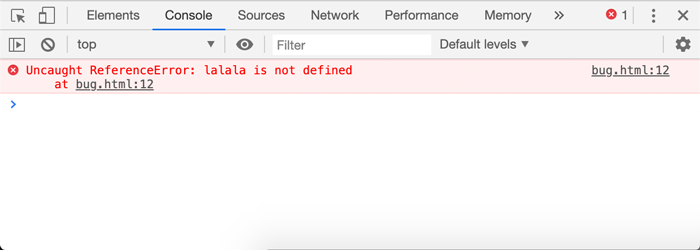
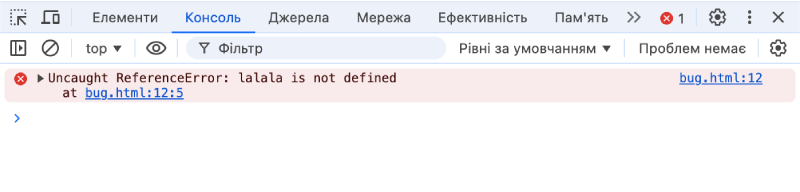
Translate DevTools tabs

diff --git a/1-js/01-getting-started/4-devtools/article.md b/1-js/01-getting-started/4-devtools/article.md
@@ -16,18 +16,18 @@
 
 Відкрийте сторінку [bug.html](bug.html). На ній є помилка в коді JavaScript. Вона прихована для звичайних користувачів, тому потрібно відкрити інструменти розробника, щоб її побачити.
 
-Натисніть клавішу `key:F12` або, якщо у вас Mac, комбінацію клавіш `key:Cmd+Opt+J`.
+Натисніть клавішу `key:F12` або, якщо у вас комп'ютер Mac, комбінацію клавіш `key:Cmd+Opt+J`.
 
-Інструменти розробника типово відкриваються на вкладці "Console" (консоль).
+Інструменти розробника типово відкриваються на вкладці "Консоль" ("Console").
 
 Ось так відображається помилка в консолі:
 
 ![chrome](chrome.png)
 
-Точний вигляд інструментів розробника може відрізнятися в залежності від вашої версії Chrome. Вони міняються час від часу, але в основному це вікно повинно бути схожим.
+Точний вигляд інструментів розробника може відрізнятися в залежності від вашої версії Chrome, а також налаштування мови.
 
 - Тут ми можемо побачити червоне повідомлення про помилку. У нашому випадку, скрипт має невизначену команду "lalala".
-- З правого боку є посилання на джерело `bug.html:12` з номером рядка, де ця помилка виникла. При натисканні на це посилання, вас перенаправить на вкладку "Sources" (файли з кодом сторінки), де відкриється файл і перейде на рядок, в якому трапилася помилка.
+- З правого боку є посилання на джерело `bug.html:12` з номером рядка, де ця помилка виникла. При натисканні на це посилання, вас перенаправить на вкладку "Джерела" ("Sources"), в якій відкриється файл на тому рядку, де виникла помилка.
 
 Нижче повідомлення про помилку є синій символ `>`. Цей символ позначає "командний рядок", де ми можемо вводити команди JavaScript. Натисніть `key:Enter`, щоб їх виконати.
 
